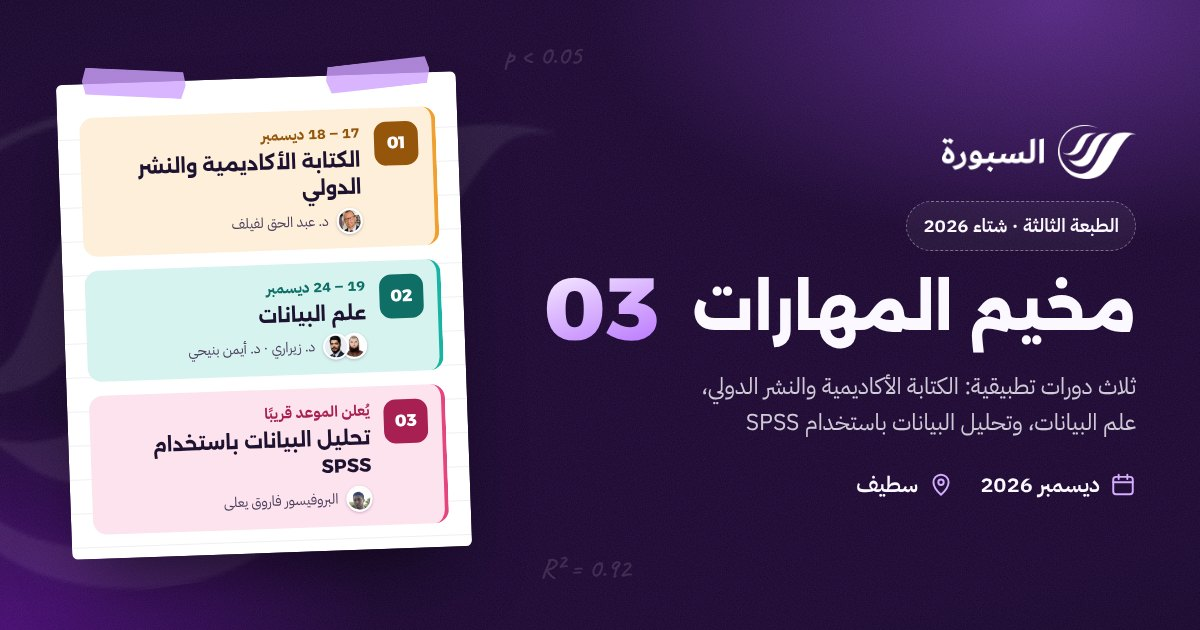
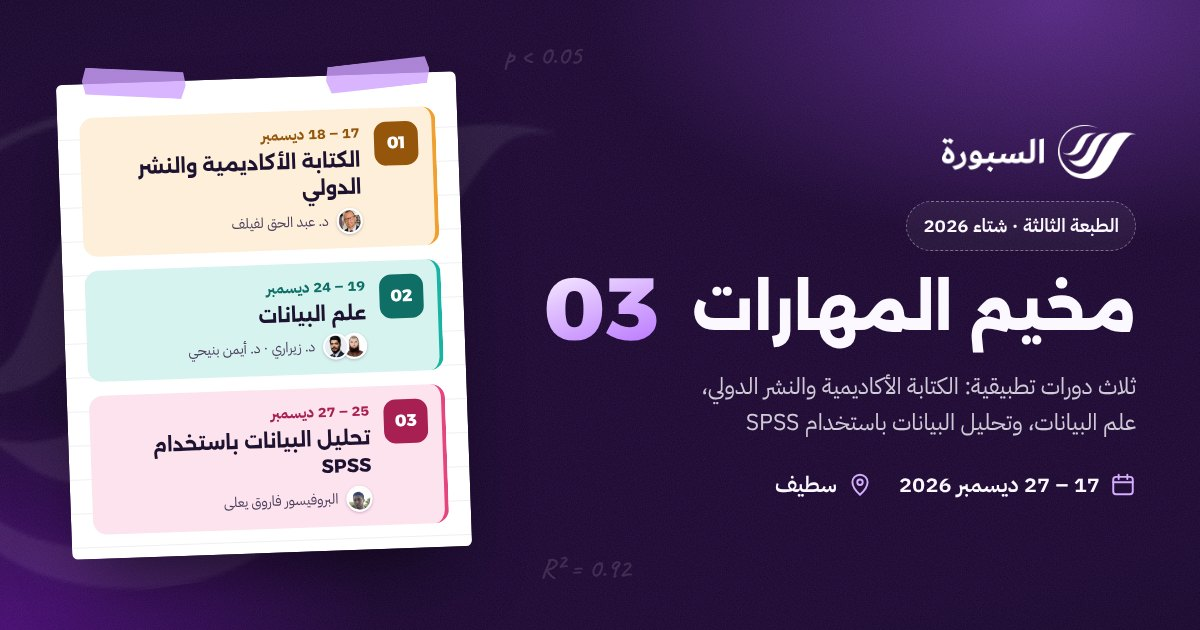
SPSS dates, Purchase event and RTL-safe price format
- SPSS course: 25–27 December 2026 (Fri–Sun) across hero card, course
  card (+ 3 days), calendar (now 11 days with an SPSS bar), trainer
  tag, form option, legend and FAQ; hero date 17–27 December; stats
  show 11 days; spssDate config option removed; OG image regenerated
- Replace the Lead event with Purchase (browser pixel and Conversions
  API) for Sales campaigns, with value, DZD currency, content_ids,
  content_type and num_items; content_ids allowlisted server-side
- Format prices with a comma (18,000) instead of a space, which made
  the digit groups render reversed in right-to-left text; isolate
  'SPSS' where it precedes dates

Claude-Session: https://claude.ai/code/session_01AbgeLvBfExSSQxv7QG2KZ6

Changed region(s): [[0.6475, 0.754, 0.925, 0.7841], [0.2158, 0.6333, 0.3083, 0.6635], [0.6167, 0.4825, 0.6783, 0.5127]]

diff --git a/index.html b/index.html
@@ -4,7 +4,7 @@
   <meta charset="utf-8">
   <meta name="viewport" content="width=device-width, initial-scale=1, viewport-fit=cover">
   <title>مخيم المهارات 03 | مدرسة السبورة — سطيف</title>
-  <meta name="description" content="مخيم المهارات 03 بمدرسة السبورة سطيف، ديسمبر 2026: الكتابة الأكاديمية والنشر الدولي مع د. عبد الحق لفيلف، علم البيانات مع د. زيراري ود. أيمن بنيحي، وتحليل البيانات باستخدام SPSS مع البروفيسور فاروق يعلى. سجّل الآن، المقاعد محدودة.">
+  <meta name="description" content="مخيم المهارات 03 بمدرسة السبورة سطيف، من 17 إلى 27 ديسمبر 2026: الكتابة الأكاديمية والنشر الدولي مع د. عبد الحق لفيلف، علم البيانات مع د. زيراري ود. أيمن بنيحي، وتحليل البيانات باستخدام SPSS مع البروفيسور فاروق يعلى. سجّل الآن، المقاعد محدودة.">
   <meta name="theme-color" content="#1b0631">
   <link rel="icon" href="assets/img/favicon.png" type="image/png">
   <link rel="apple-touch-icon" href="assets/img/apple-touch-icon.png">
@@ -150,7 +150,7 @@
         </h1>
         <p class="hero-lead">ثلاث دورات تطبيقية مكثّفة في <strong>الكتابة الأكاديمية والنشر الدولي</strong>، <strong>علم البيانات</strong>، و<strong>تحليل البيانات باستخدام SPSS</strong>، يؤطّرها أساتذة وباحثون في مدرسة السبورة بسطيف.</p>
         <ul class="hero-meta">
-          <li><svg class="i" aria-hidden="true"><use href="#i-calendar"/></svg> ابتداءً من 17 ديسمبر 2026</li>
+          <li><svg class="i" aria-hidden="true"><use href="#i-calendar"/></svg> 17 – 27 ديسمبر 2026</li>
           <li><svg class="i" aria-hidden="true"><use href="#i-pin"/></svg> مدرسة السبورة، سطيف</li>
           <li><svg class="i" aria-hidden="true"><use href="#i-users"/></svg> تكوين حضوري، مقاعد محدودة</li>
         </ul>
@@ -194,7 +194,7 @@
           <li class="c3">
             <span class="hc-num" dir="ltr">03</span>
             <div>
-              <span class="hc-date" data-spss-date>يُعلن الموعد قريبًا</span>
+              <span class="hc-date">25 – 27 ديسمبر</span>
               <strong>تحليل البيانات باستخدام SPSS</strong>
               <span class="hc-who"><span class="faces"><img src="assets/img/trainers/yala.jpg" alt=""></span>البروفيسور فاروق يعلى</span>
             </div>
@@ -210,7 +210,7 @@
     <div class="container stats-grid">
       <div class="stat"><strong data-count="3">3</strong><span>دورات تطبيقية مستقلة</span></div>
       <div class="stat"><strong data-count="4">4</strong><span>أساتذة وباحثين مؤطّرين</span></div>
-      <div class="stat"><strong><bdi dir="ltr" data-count="8" data-prefix="+">+8</bdi></strong><span>أيام من التكوين الحضوري</span></div>
+      <div class="stat"><strong data-count="11">11</strong><span>يومًا من التكوين الحضوري</span></div>
       <div class="stat"><strong dir="ltr" data-count="3" data-pad="2">03</strong><span>الطبعة الثالثة من المخيم</span></div>
     </div>
   </section>
@@ -340,7 +340,8 @@
             <p class="course-label">الدورة</p>
             <p class="course-num" dir="ltr">03</p>
             <ul class="course-meta">
-              <li><svg class="i" aria-hidden="true"><use href="#i-calendar"/></svg><span><b data-spss-date>يُعلن الموعد قريبًا</b></span></li>
+              <li><svg class="i" aria-hidden="true"><use href="#i-calendar"/></svg><span><b>25 – 27 ديسمبر 2026</b></span></li>
+              <li><svg class="i" aria-hidden="true"><use href="#i-clock"/></svg><span>3 أيام تطبيقية</span></li>
               <li><svg class="i" aria-hidden="true"><use href="#i-pin"/></svg><span>حضوري، مدرسة السبورة سطيف</span></li>
             </ul>
             <div class="course-trainers">
@@ -375,7 +376,7 @@
         <span class="bundle-icon"><svg class="i" aria-hidden="true"><use href="#i-layers"/></svg></span>
         <div class="bundle-text">
           <h3>تريد الاستفادة القصوى؟</h3>
-          <p>سجّل في المخيم كاملاً وتابع الدورات الثلاث: من كتابة المقال ونشره، إلى تحليل بياناته بـ SPSS و Python.</p>
+          <p>سجّل في المخيم كاملاً وتابع الدورات الثلاث من 17 إلى 27 ديسمبر: من كتابة المقال ونشره، إلى تحليل بياناته بـ SPSS و Python.</p>
           <p class="course-price" data-price="all" hidden><span>رسوم المخيم كاملاً</span><b data-price-value></b><s class="price-was" data-price-was hidden></s><span class="price-note" data-price-save hidden></span></p>
         </div>
         <a class="btn btn-dark" href="#register" data-select-course="all" data-cta="bundle">سجّل في المخيم كاملاً</a>
@@ -388,8 +389,8 @@
     <div class="container">
       <header class="section-head" data-reveal>
         <p class="eyebrow">الرزنامة</p>
-        <h2 id="calendar-title">ثمانية أيام متتالية في ديسمبر</h2>
-        <p>خطّط لمشاركتك: يمكنك متابعة دورة واحدة، أو الجمع بين الكتابة الأكاديمية وعلم البيانات دون أي تداخل.</p>
+        <h2 id="calendar-title">أحد عشر يومًا متتالية في ديسمبر</h2>
+        <p>خطّط لمشاركتك: مواعيد الدورات الثلاث متتالية ولا تتداخل، فيمكنك متابعة دورة واحدة أو أكثر، أو المخيم كاملاً.</p>
       </header>
 
       <div class="cal" data-reveal>
@@ -402,13 +403,17 @@
           <div class="day c2"><span class="dname">الثلاثاء</span><span class="dnum">22</span></div>
           <div class="day c2"><span class="dname">الأربعاء</span><span class="dnum">23</span></div>
           <div class="day c2"><span class="dname">الخميس</span><span class="dnum">24</span></div>
+          <div class="day c3"><span class="dname">الجمعة</span><span class="dnum">25</span></div>
+          <div class="day c3"><span class="dname">السبت</span><span class="dnum">26</span></div>
+          <div class="day c3"><span class="dname">الأحد</span><span class="dnum">27</span></div>
           <div class="bar c1" style="grid-column: 1 / span 2"><svg class="i" aria-hidden="true"><use href="#i-pen"/></svg> الكتابة الأكاديمية</div>
           <div class="bar c2" style="grid-column: 3 / span 6"><svg class="i" aria-hidden="true"><use href="#i-chart"/></svg> علم البيانات</div>
+          <div class="bar c3" style="grid-column: 9 / span 3"><svg class="i" aria-hidden="true"><use href="#i-table"/></svg> SPSS</div>
         </div>
         <ul class="cal-legend">
           <li class="c1"><i></i>الكتابة الأكاديمية والنشر الدولي: 17 – 18 ديسمبر</li>
           <li class="c2"><i></i>علم البيانات: 19 – 24 ديسمبر</li>
-          <li class="c3"><i></i>تحليل البيانات باستخدام SPSS: <span data-spss-date>يُعلن الموعد قريبًا</span></li>
+          <li class="c3"><i></i>تحليل البيانات باستخدام <bdi>SPSS</bdi>: 25 – 27 ديسمبر</li>
         </ul>
       </div>
     </div>
@@ -446,7 +451,7 @@
           <div class="avatar"><img src="assets/img/trainers/yala.jpg" alt="صورة البروفيسور فاروق يعلى" width="160" height="160" loading="lazy"><span class="avatar-badge" aria-hidden="true"><svg class="i"><use href="#i-table"/></svg></span></div>
           <h3>البروفيسور فاروق يعلى</h3>
           <p>مؤطّر دورة تحليل البيانات باستخدام SPSS</p>
-          <span class="tag" data-spss-date>يُعلن الموعد قريبًا</span>
+          <span class="tag">25 – 27 ديسمبر</span>
         </article>
       </div>
     </div>
@@ -607,10 +612,10 @@
                 </span>
               </label>
               <label class="copt c3">
-                <input type="checkbox" name="courses_list" value="تحليل البيانات باستخدام SPSS" data-course="spss">
+                <input type="checkbox" name="courses_list" value="تحليل البيانات باستخدام SPSS (25–27 ديسمبر)" data-course="spss">
                 <span class="copt-box">
                   <span class="copt-check"><svg class="i" aria-hidden="true"><use href="#i-check"/></svg></span>
-                  <span class="copt-text"><strong>تحليل البيانات باستخدام SPSS</strong><small><span data-spss-date>يُعلن الموعد قريبًا</span> · البروفيسور فاروق يعلى</small><em class="copt-price" data-price-inline="spss" hidden></em></span>
+                  <span class="copt-text"><strong>تحليل البيانات باستخدام SPSS</strong><small>25 – 27 ديسمبر · البروفيسور فاروق يعلى</small><em class="copt-price" data-price-inline="spss" hidden></em></span>
                 </span>
               </label>
               <label class="copt call">
@@ -705,7 +710,7 @@
         </details>
         <details>
           <summary>هل يجب أن أسجّل في كل الدورات؟<svg class="i" aria-hidden="true"><use href="#i-chevron"/></svg></summary>
-          <div class="faq-a"><p>لا. كل دورة مستقلة بذاتها؛ اختر في الاستمارة دورة واحدة أو أكثر، أو المخيم كاملاً. مواعيد الكتابة الأكاديمية وعلم البيانات متتالية ولا تتداخل.</p></div>
+          <div class="faq-a"><p>لا. كل دورة مستقلة بذاتها؛ اختر في الاستمارة دورة واحدة أو أكثر، أو المخيم كاملاً. مواعيد الدورات الثلاث متتالية ولا تتداخل.</p></div>
         </details>
         <details>
           <summary>هل أحتاج إلى خبرة مسبقة في البرمجة لدورة علم البيانات؟<svg class="i" aria-hidden="true"><use href="#i-chevron"/></svg></summary>
@@ -720,8 +725,8 @@
           <div class="faq-a"><p>بعد إرسال الاستمارة تظهر لك معلومات الدفع والمبلغ المطلوب. ادفع عبر الحساب البريدي (CCP) أو تطبيق بريدي موب، ثم أرسل صورة الوصل عبر واتساب. يُعتبر المقعد محجوزًا بعد التحقق من الدفع.</p></div>
         </details>
         <details>
-          <summary>متى تنطلق دورة SPSS؟<svg class="i" aria-hidden="true"><use href="#i-chevron"/></svg></summary>
-          <div class="faq-a"><p>الموعد: <b data-spss-date>يُعلن الموعد قريبًا</b>. سجّل الآن واختر الدورة في الاستمارة لتكون أول من يصله الإعلان.</p></div>
+          <summary>ما مواعيد الدورات بالتحديد؟<svg class="i" aria-hidden="true"><use href="#i-chevron"/></svg></summary>
+          <div class="faq-a"><p>الكتابة الأكاديمية والنشر الدولي: 17 – 18 ديسمبر. علم البيانات: 19 – 24 ديسمبر. تحليل البيانات باستخدام <bdi>SPSS</bdi>: 25 – 27 ديسمبر 2026.</p></div>
         </details>
         <details>
           <summary>هل أحصل على شهادة؟<svg class="i" aria-hidden="true"><use href="#i-chevron"/></svg></summary>

diff --git a/assets/js/main.js b/assets/js/main.js
@@ -92,10 +92,6 @@
     });
   }
 
-  /* ---------- الإعدادات: موعد SPSS ---------- */
-  if (hasValue(CFG.spssDate)) {
-    $$('[data-spss-date]').forEach(function (el) { el.textContent = String(CFG.spssDate).trim(); });
-  }
 
   /* ---------- الإعدادات: الأسعار ---------- */
   var PRICES = CFG.prices || {};
@@ -106,7 +102,8 @@
   function formatPrice(v) {
     var n = priceNumber(v);
     if (!n) { return String(v); }
-    return n.toLocaleString('en-US').replace(/,/g, ' ') + ' دج';
+    // الفاصلة (18,000) تُبقي الرقم كتلة واحدة؛ المسافة (18 000) تجعله يظهر معكوسًا في النص العربي
+    return n.toLocaleString('en-US') + ' دج';
   }
   $$('[data-price]').forEach(function (el) {
     var v = PRICES[el.getAttribute('data-price')];
@@ -629,11 +626,20 @@
     var phoneVal = normalizePhone(fields.phone.value);
     var courses = coursesHidden.value;
 
-    var params = { content_name: courses, content_category: FORM_LABEL };
+    // حدث Purchase (هدف حملات المبيعات): القيمة = رسوم الدورات المختارة بالدينار
     var value = leadValue();
-    if (value > 0) { params.value = value; params.currency = 'DZD'; }
+    var keys = (allBox && allBox.checked) ? ['all'] : selectedKeys();
+    var params = {
+      content_name: courses,
+      content_category: FORM_LABEL,
+      content_type: 'product',
+      content_ids: keys,
+      num_items: keys.length,
+      value: value,
+      currency: 'DZD'
+    };
     // بيانات المطابقة تُرسل إلى خادمنا فقط، ويشفّرها (SHA-256) قبل إرسالها إلى ميتا
-    track('Lead', params, {
+    track('Purchase', params, {
       userData: { full_name: name, ph: phoneVal, em: (fields.email.value || '').trim() }
     });
 

diff --git a/api/capi.js b/api/capi.js
@@ -17,7 +17,8 @@ const crypto = require('crypto');
 
 const PIXEL_ID = (process.env.META_PIXEL_ID || '1084066284668146').trim();
 const API_VERSION = (process.env.META_API_VERSION || 'v24.0').trim();
-const ALLOWED_EVENTS = new Set(['PageView', 'ViewContent', 'FormStart', 'Lead', 'Contact']);
+const ALLOWED_EVENTS = new Set(['PageView', 'ViewContent', 'FormStart', 'Purchase', 'Contact']);
+const ALLOWED_CONTENT_IDS = new Set(['writing', 'datascience', 'spss', 'all']);
 
 const sha256 = (value) => crypto.createHash('sha256').update(value, 'utf8').digest('hex');
 const text = (value, max = 300) => (typeof value === 'string' ? value.trim().slice(0, max) : '');
@@ -102,6 +103,14 @@ function buildEvent(req, input) {
   const customData = {};
   if (text(rawCustom.content_name)) customData.content_name = text(rawCustom.content_name);
   if (text(rawCustom.content_category)) customData.content_category = text(rawCustom.content_category);
+  if (Array.isArray(rawCustom.content_ids)) {
+    const ids = rawCustom.content_ids.map((id) => text(id, 20)).filter((id) => ALLOWED_CONTENT_IDS.has(id));
+    if (ids.length) {
+      customData.content_ids = ids;
+      customData.content_type = 'product';
+      customData.num_items = ids.length;
+    }
+  }
   const value = Number(rawCustom.value);
   if (isFinite(value) && value > 0 && value < 10000000) {
     customData.value = value;

diff --git a/assets/css/style.css b/assets/css/style.css
@@ -419,8 +419,8 @@ svg.doodle circle { fill: currentColor; stroke: none; }
 .bundle-text .course-price { margin-top: 6px; }
 
 /* ---------- Calendar ---------- */
-.cal { max-width: 1040px; margin: 0 auto; }
-.cal-grid { display: grid; grid-template-columns: repeat(8, minmax(0, 1fr)); gap: 10px; }
+.cal { max-width: 1180px; margin: 0 auto; }
+.cal-grid { display: grid; grid-template-columns: repeat(11, minmax(0, 1fr)); gap: 8px; }
 .day {
   display: flex; flex-direction: column; align-items: center; justify-content: center; gap: 4px;
   padding: 16px 6px; border-radius: 16px; text-align: center;

diff --git a/assets/js/config.js b/assets/js/config.js
@@ -18,10 +18,6 @@ window.SITE_CONFIG = {
   /* بداية المخيم (للعدّاد التنازلي) بتوقيت الجزائر +01:00 */
   campStart: '2026-12-17T08:00:00+01:00',
 
-  /* موعد دورة SPSS كما سيظهر في الصفحة، مثال: '26 – 27 ديسمبر 2026'
-     اتركه فارغًا ليظهر «يُعلن الموعد قريبًا». */
-  spssDate: '',
-
   /* رسوم الدورات بالدينار الجزائري، مثال: 8000
      اترك القيمة فارغة لإخفاء السعر من الصفحة. */
   prices: {

diff --git a/README.md b/README.md
@@ -4,10 +4,10 @@
 
 | الدورة | الموعد | التأطير | الرسوم |
 |---|---|---|---|
-| الكتابة الأكاديمية والنشر الدولي في المجلات المرموقة: دليل عملي تطبيقي | 17 – 18 ديسمبر | الدكتور عبد الحق لفيلف | 18 000 دج |
-| علم البيانات (دورتان في دورة واحدة) | 19 – 24 ديسمبر | الدكتور زيراري، الدكتور أيمن بنيحي | 41 000 دج |
-| تحليل البيانات باستخدام SPSS | يُعلن لاحقًا | البروفيسور فاروق يعلى | 18 000 دج |
-| **المخيم كاملاً** (الدورات الثلاث) | | | **70 000 دج** (بدل 77 000) |
+| الكتابة الأكاديمية والنشر الدولي في المجلات المرموقة: دليل عملي تطبيقي | 17 – 18 ديسمبر | الدكتور عبد الحق لفيلف | 18,000 دج |
+| علم البيانات (دورتان في دورة واحدة) | 19 – 24 ديسمبر | الدكتور زيراري، الدكتور أيمن بنيحي | 41,000 دج |
+| تحليل البيانات باستخدام SPSS | 25 – 27 ديسمبر | البروفيسور فاروق يعلى | 18,000 دج |
+| **المخيم كاملاً** (الدورات الثلاث) | | | **70,000 دج** (بدل 77,000) |
 
 واتساب: `213676101371`
 
@@ -37,7 +37,6 @@ api/capi.js           دالة Vercel لإرسال الأحداث إلى Meta Co
 | `capiEndpoint` | مسار دالة Conversions API: `/api/capi` (فارغ = تعطيل الإرسال من الخادم) |
 | `formEndpoint` | رابط FormBold: `https://formbold.com/s/6QjEX` |
 | `campStart` | تاريخ انطلاق المخيم للعدّاد التنازلي (يختفي العدّاد بعده تلقائيًا). |
-| `spssDate` | موعد دورة SPSS. فارغ = «يُعلن الموعد قريبًا» في كل مكان. |
 | `prices` | رسوم كل دورة وباقة المخيم كاملاً بالدينار. الفارغ لا يظهر. |
 | `contact` | الهاتف، واتساب (بصيغة `213…`)، البريد، فيسبوك، إنستغرام، العنوان، رابط الخريطة. الفارغ يُخفى. عند ضبط واتساب يظهر زر عائم وزر «أكّد عبر واتساب» بعد التسجيل. |
 
@@ -69,14 +68,15 @@ api/capi.js           دالة Vercel لإرسال الأحداث إلى Meta Co
 | `PageView` | عند فتح الصفحة |
 | `ViewContent` | عند الوصول إلى قسم البرنامج |
 | `FormStart` (مخصّص) | أول نقرة داخل الاستمارة |
-| `Lead` | بعد نجاح الإرسال (مع أسماء الدورات، والقيمة بالدينار إن ضُبطت الأسعار) |
+| `Purchase` | بعد نجاح إرسال الاستمارة، بقيمة الدورات المختارة بالدينار (`DZD`) ومعرّفاتها (`writing`، `datascience`، `spss`، `all`) |
 | `Contact` | النقر على الهاتف أو واتساب |
 
-استعمل حدث **Lead** هدفًا للتحويل في حملاتك الإعلانية.
+استعمل حدث **Purchase** هدفًا للتحويل في حملات المبيعات (Sales).
+> ملاحظة: الحدث يُرسل عند **التسجيل**، لا بعد التحقق من الدفع؛ فالقيمة في مدير الإعلانات تمثّل قيمة التسجيلات.
 تُلتقط وسوم `utm_*` و`fbclid` من رابط الإعلان وتُرسل مع كل تسجيل.
 
 بيانات المطابقة المُرسلة من الخادم: عنوان IP، المتصفح، `fbp`، `fbc`، معرّف الزائر، والبلد (`dz`).
-ومع حدث **Lead**: الهاتف (بصيغة `213…`)، البريد، الاسم واللقب.
+ومع حدث **Purchase**: الهاتف (بصيغة `213…`)، البريد، الاسم واللقب.
 كل البيانات الشخصية تُشفَّر بـ SHA-256 في الخادم قبل إرسالها إلى ميتا.
 
 ### متغيّرات البيئة على Vercel
